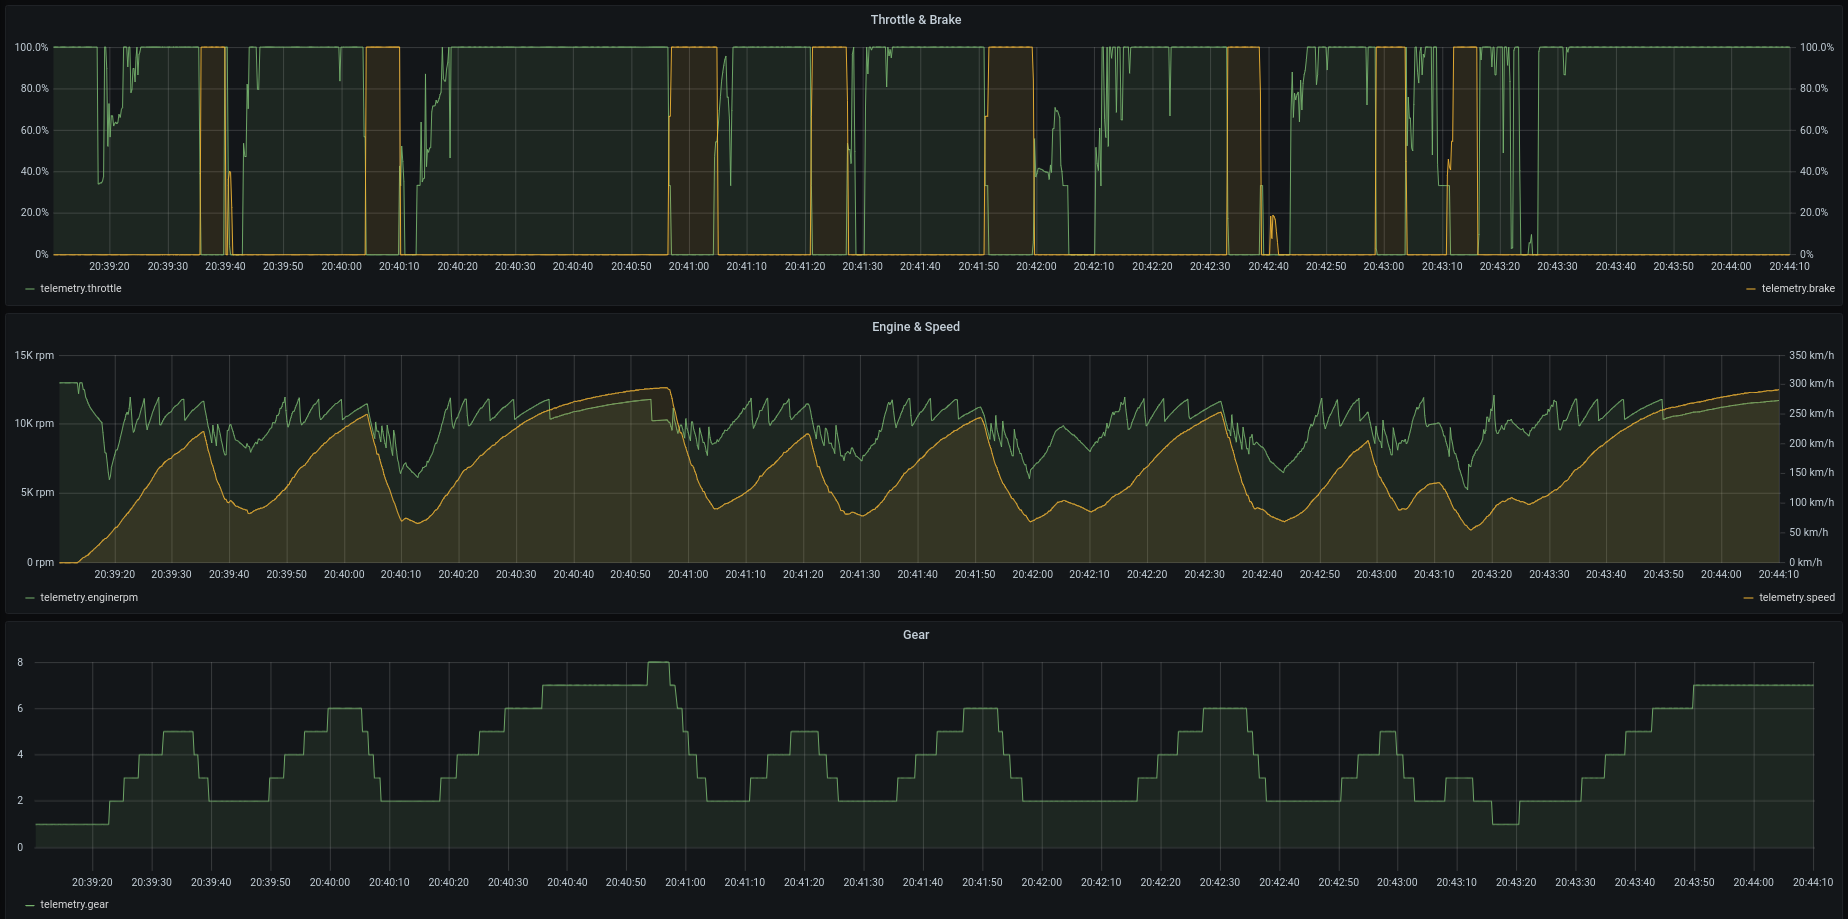
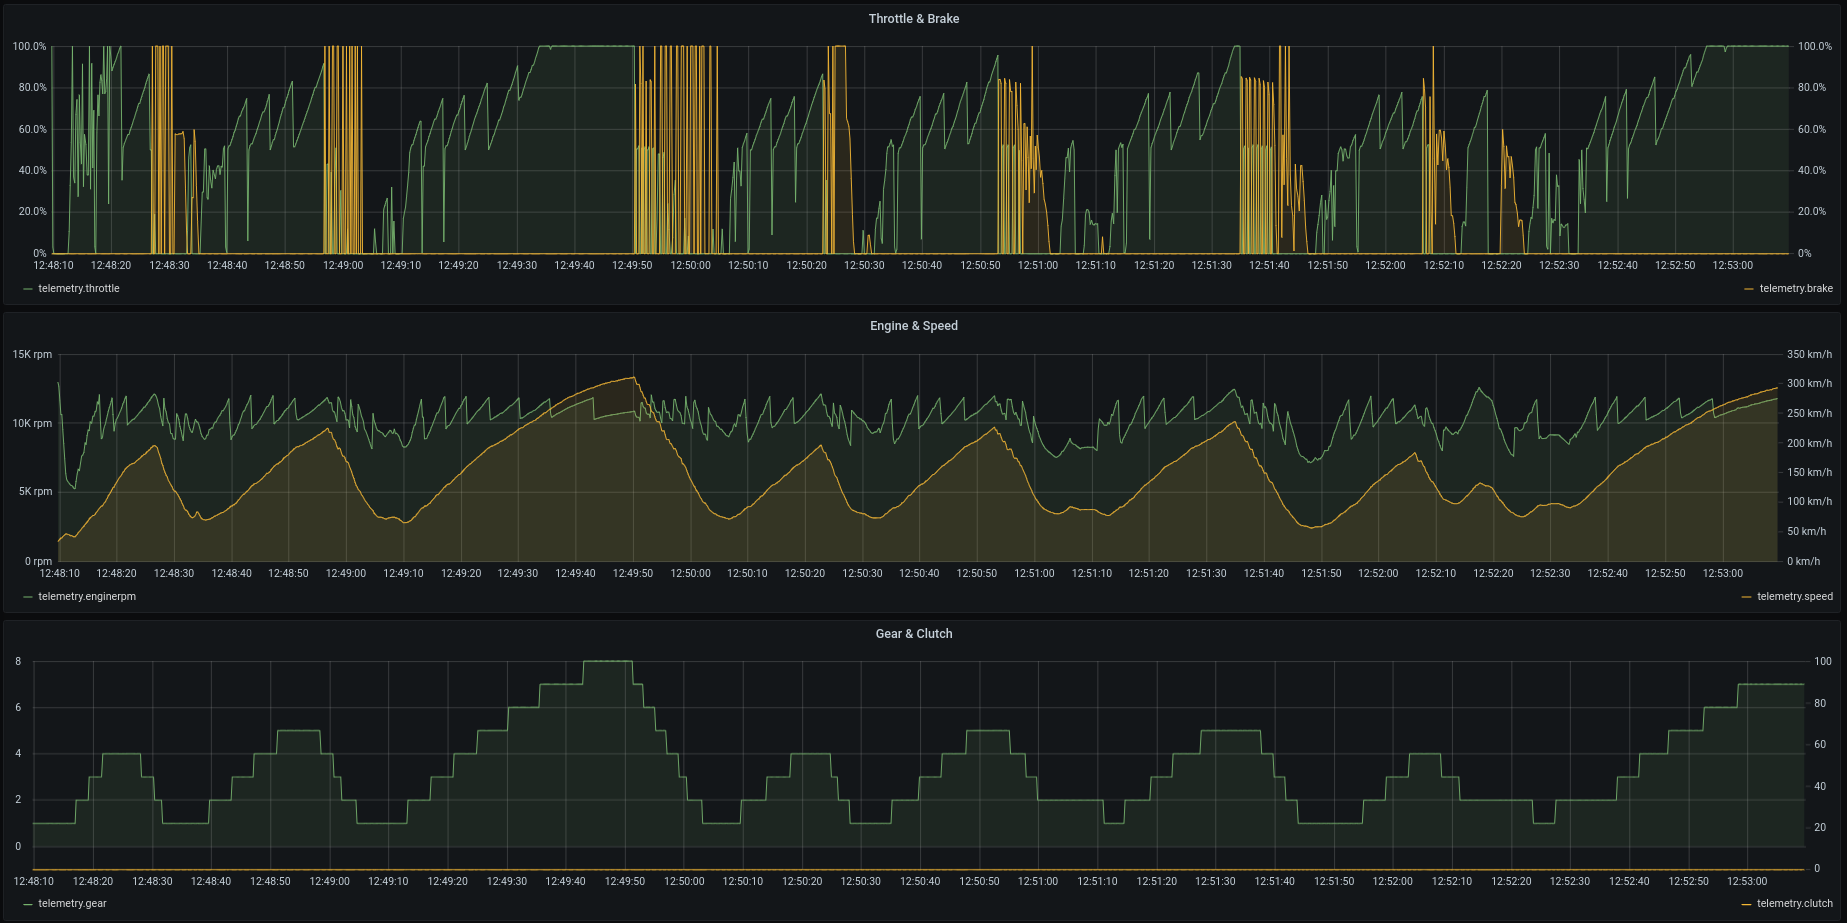
Added clutch applied

diff --git a/f1-telemetry-kafka-influxdb/src/main/java/io/ppatierno/formula1/DriversPointRouteBuilder.java b/f1-telemetry-kafka-influxdb/src/main/java/io/ppatierno/formula1/DriversPointRouteBuilder.java
@@ -55,6 +55,7 @@ public class DriversPointRouteBuilder extends RouteBuilder {
                     .addField("throttle", driver.getCarTelemetryData().getThrottle())
                     .addField("brake", driver.getCarTelemetryData().getBrake())
                     .addField("gear", driver.getCarTelemetryData().getGear())
+                    .addField("clutch", driver.getCarTelemetryData().getClutch())
                     .addField("rltyresurfacetemperature", driver.getCarTelemetryData().getTyresSurfaceTemperature()[Wheel.REAR_LEFT.getValue()])
                     .addField("rrtyresurfacetemperature", driver.getCarTelemetryData().getTyresSurfaceTemperature()[Wheel.REAR_RIGHT.getValue()])
                     .addField("fltyresurfacetemperature", driver.getCarTelemetryData().getTyresSurfaceTemperature()[Wheel.FRONT_LEFT.getValue()])
